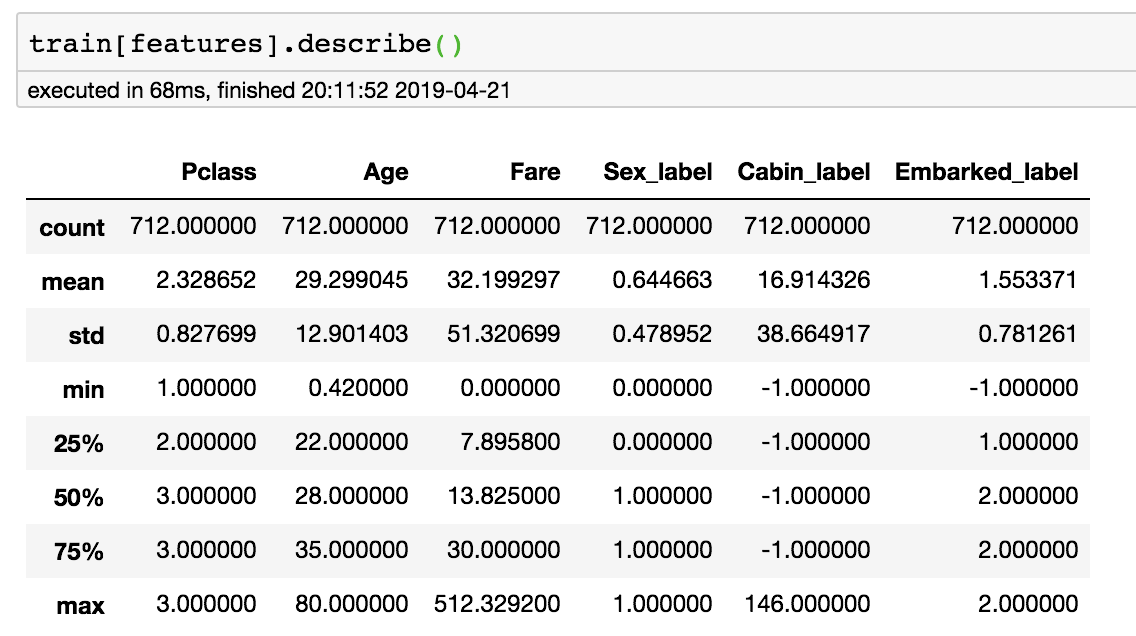
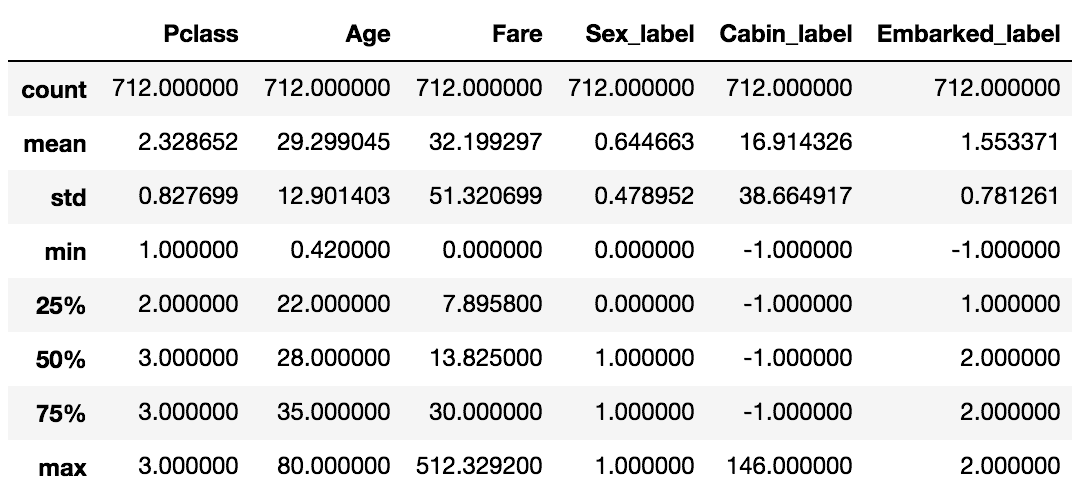
Add code paragraphs

diff --git a/README.md b/README.md
@@ -19,19 +19,20 @@ This library was developed with two main ideas in mind :
 ### Training example
 The well known [titanic dataset](https://www.kaggle.com/c/titanic/data) was chosen to show library capabilities.
 
-features = ["Pclass", "Age", "Fare", "Sex_label", "Cabin_label", "Embarked_label"] <br>
-target = "Survived" 
+> features = ["Pclass", "Age", "Fare", "Sex_label", "Cabin_label", "Embarked_label"] <br>
+> target = "Survived" 
 
 Let see some descriptive statistics about training set. <br> 
+> train[features].describe() <br>
 ![](https://github.com/tlapusan/woodpecker/blob/version_0.1/resources/docs/images/classification/titanic_train_describe.png)
    
 ### Train the model 
-model = DecisionTreeClassifier(criterion="entropy", random_state=random_state, min_samples_split=20)
-model.fit(train[features], train[target])
+> model = DecisionTreeClassifier(criterion="entropy", random_state=random_state, min_samples_split=20)
+> model.fit(train[features], train[target])
 
 ### Start using the library
 
-dts = DecisionTreeStructure(model, train, features, target)
+> dts = DecisionTreeStructure(model, train, features, target)
 
 #### Visualize feature importance
 
@@ -39,7 +40,7 @@ You don't have type all the code needed to extract feature importance,
 to map them to feature names and to sort them.
 Now, you just type this simple utility function. 
 
-dts.show_features_importance()
+> dts.show_features_importance() <br>
 ![](https://github.com/tlapusan/woodpecker/blob/version_0.1/resources/docs/images/classification/feature_importance.png)
 
 #### Visualize decision tree structure 
@@ -47,7 +48,7 @@ dts.show_features_importance()
 Like in the above case, this function is also an utility function what 
 wrap all the code needed to visualize decision tree structure using graphviz.
 
-dts.show_decision_tree_structure()
+> dts.show_decision_tree_structure() <br>
 ![](https://github.com/tlapusan/woodpecker/blob/version_0.1/resources/docs/images/classification/decision_tree_structure.png)
 
 #### Leaves impurity distribution
@@ -59,7 +60,7 @@ In case of entropy, impurity is a range of values between 0 and 1.
 The tree performance is directly influenced by each leaf performance. So it's very important to have a general 
 overview of how leaves impurity looks.
 
-dts.show_leaf_impurity_distribution(bins=40, figsize=(20, 7))
+> dts.show_leaf_impurity_distribution(bins=40, figsize=(20, 7)) <br>
 ![](https://github.com/tlapusan/woodpecker/blob/version_0.1/resources/docs/images/classification/leaves_impurity_distribution.png)
 
 #### Leaves sample distribution
@@ -71,7 +72,7 @@ of outfitting for the leaf.
 
 That's why is important to look both at leaves impurity and samples to get a better understanding of tree performance.
 
-dts.show_leaf_samples_distribution(bins=40, figsize=(20, 7))
+> dts.show_leaf_samples_distribution(bins=40, figsize=(20, 7)) <br>
 ![](https://github.com/tlapusan/woodpecker/blob/version_0.1/resources/docs/images/classification/leaves_sample_distribution.png)
 
 #### Individual leaves metrics
@@ -80,15 +81,15 @@ There could be the case when we want to investigate individual leaf behavior. <b
 We could analyze leaves with very good, medium or very low performance.  
 
 
-plt.figure(figsize=(40,30))
-plt.subplot(3,1,1)
-dts.show_leaf_impurity()
+> plt.figure(figsize=(40,30)) <br>
+> plt.subplot(3,1,1) <br>
+> dts.show_leaf_impurity() <br>
 
-plt.subplot(3,1,2)
-dts.show_leaf_samples()
+> plt.subplot(3,1,2) <br>
+> dts.show_leaf_samples()
 
-plt.subplot(3,1,3)
-dts.show_leaf_samples_by_class()
+> plt.subplot(3,1,3)
+> dts.show_leaf_samples_by_class()
 
 ![](https://github.com/tlapusan/woodpecker/blob/version_0.1/resources/docs/images/classification/leaves_metrics.png)
 
